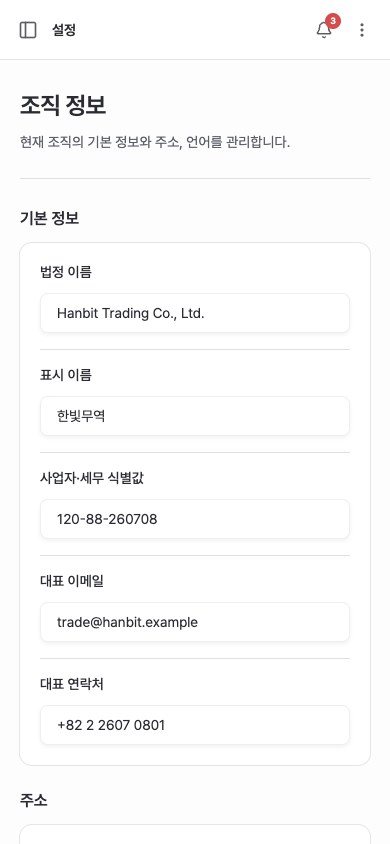
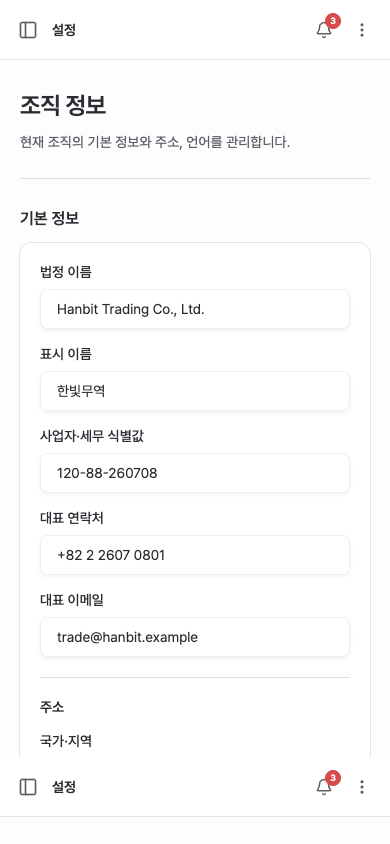
style: combine organization settings into one compact card

diff --git a/share/settings/page.tsx b/share/settings/page.tsx
@@ -341,14 +341,12 @@ function AccountPage() {
   )
 }
 
-function OrganizationSection({ title, id, children }: { title: string; id: string; children: ReactNode }) {
+function OrganizationField({ label, htmlFor, children }: { label: string; htmlFor?: string; children: ReactNode }) {
   return (
-    <section aria-labelledby={id} className="space-y-3">
-      <h2 id={id} className="text-base font-semibold">{title}</h2>
-      <Card className="shadow-none">
-        <CardContent className="p-5 sm:p-6">{children}</CardContent>
-      </Card>
-    </section>
+    <div className="min-w-0 space-y-2 [&_[role=combobox]]:h-10">
+      {htmlFor ? <label htmlFor={htmlFor} className="block text-sm font-medium">{label}</label> : <p className="text-sm font-medium">{label}</p>}
+      {children}
+    </div>
   )
 }
 
@@ -365,32 +363,44 @@ function OrganizationPage({ role, products }: { role: SettingsRole; products: re
     <div>
       <PageHeading title="조직 정보" description="현재 조직의 기본 정보와 주소, 언어를 관리합니다." />
       <form onSubmit={event => { event.preventDefault(); if (editable) setSaveError("조직 정보를 저장할 수 없습니다. 잠시 후 다시 시도해 주세요. 입력한 내용은 유지됩니다.") }} className="space-y-6">
-        <OrganizationSection id="organization-basics" title="기본 정보">
-          <SettingRow label="법정 이름"><Input data-guide-target="organization" aria-label="법정 이름" autoComplete="organization" defaultValue="Hanbit Trading Co., Ltd." readOnly={!editable} /></SettingRow>
-          <SettingRow label="표시 이름"><Input aria-label="표시 이름" defaultValue="한빛무역" readOnly={!editable} /></SettingRow>
-          <SettingRow label="사업자·세무 식별값"><Input aria-label="사업자·세무 식별값" defaultValue="120-88-260708" readOnly={!editable} /></SettingRow>
-          <SettingRow label="대표 이메일"><Input aria-label="대표 이메일" type="email" autoComplete="email" defaultValue="trade@hanbit.example" readOnly={!editable} /></SettingRow>
-          <SettingRow label="대표 연락처"><Input aria-label="대표 연락처" type="tel" autoComplete="tel" defaultValue="+82 2 2607 0801" readOnly={!editable} /></SettingRow>
-        </OrganizationSection>
-        <OrganizationSection id="organization-address" title="주소">
-          <SettingRow label="국가·지역" description="국가명이나 국가 코드로 검색할 수 있습니다.">
-            <SearchableSetting label="국가·지역" value={country} options={countryOptions} onChange={setCountry} disabled={!editable} />
-          </SettingRow>
-          {country !== "KR" ? <p role="status" className="py-3 text-xs text-muted-foreground">국가를 변경했습니다. 기존 주소와 우편번호가 새 국가에 맞는지 확인해 주세요.</p> : null}
-          <SettingRow label="우편번호"><Input aria-label="우편번호" autoComplete="postal-code" placeholder={country === "US" ? "예: 10001" : country === "JP" ? "예: 100-0001" : "우편번호"} readOnly={!editable} /></SettingRow>
-          <SettingRow label={regionLabel}><Input aria-label={regionLabel} autoComplete="address-level1" defaultValue="서울특별시" readOnly={!editable} /></SettingRow>
-          <SettingRow label={cityLabel}><Input aria-label={cityLabel} autoComplete="address-level2" defaultValue="중구" readOnly={!editable} /></SettingRow>
-          <SettingRow label="기본 주소" description="도로명과 건물 번호를 입력하세요."><Input aria-label="기본 주소" autoComplete="address-line1" placeholder="도로명, 건물 번호" readOnly={!editable} /></SettingRow>
-          <SettingRow label="상세 주소" description="동·층·호수 등 추가 주소를 입력하세요. (선택)"><Input aria-label="상세 주소" autoComplete="address-line2" placeholder="동, 층, 호수" readOnly={!editable} /></SettingRow>
-        </OrganizationSection>
-        <OrganizationSection id="organization-region" title="언어 및 시간대">
-          <SettingRow label="기본 언어" description="개인의 언어 설정은 내 계정에서 관리합니다.">
-            <SearchableSetting label="기본 언어" value={locale} options={locales} onChange={setLocale} disabled={!editable} />
-          </SettingRow>
-          <SettingRow label="기본 시간대" description="국가를 바꿔도 시간대는 유지됩니다.">
-            <SearchableSetting label="기본 시간대" value={timezone} options={timeZoneOptions} onChange={setTimezone} disabled={!editable} />
-          </SettingRow>
-        </OrganizationSection>
+        <section aria-labelledby="organization-basics" className="space-y-3">
+          <h2 id="organization-basics" className="text-base font-semibold">기본 정보</h2>
+          <Card className="shadow-none">
+            <CardContent className="space-y-5 p-5 sm:p-6">
+              <div className="grid gap-4 sm:grid-cols-2">
+                <OrganizationField label="법정 이름" htmlFor="organization-legal-name"><Input id="organization-legal-name" data-guide-target="organization" aria-label="법정 이름" autoComplete="organization" defaultValue="Hanbit Trading Co., Ltd." readOnly={!editable} /></OrganizationField>
+                <OrganizationField label="표시 이름" htmlFor="organization-display-name"><Input id="organization-display-name" aria-label="표시 이름" defaultValue="한빛무역" readOnly={!editable} /></OrganizationField>
+                <OrganizationField label="사업자·세무 식별값" htmlFor="organization-tax-id"><Input id="organization-tax-id" aria-label="사업자·세무 식별값" defaultValue="120-88-260708" readOnly={!editable} /></OrganizationField>
+                <OrganizationField label="대표 연락처" htmlFor="organization-phone"><Input id="organization-phone" aria-label="대표 연락처" type="tel" autoComplete="tel" defaultValue="+82 2 2607 0801" readOnly={!editable} /></OrganizationField>
+                <div className="sm:col-span-2">
+                  <OrganizationField label="대표 이메일" htmlFor="organization-email"><Input id="organization-email" aria-label="대표 이메일" type="email" autoComplete="email" defaultValue="trade@hanbit.example" readOnly={!editable} /></OrganizationField>
+                </div>
+              </div>
+              <div role="group" aria-labelledby="organization-address" className="space-y-4 border-t pt-5">
+                <h3 id="organization-address" className="text-sm font-semibold">주소</h3>
+                <div className="grid gap-4 sm:grid-cols-2">
+                  <OrganizationField label="국가·지역">
+                    <SearchableSetting label="국가·지역" value={country} options={countryOptions} onChange={setCountry} disabled={!editable} />
+                  </OrganizationField>
+                  <OrganizationField label="우편번호" htmlFor="organization-postal-code"><Input id="organization-postal-code" aria-label="우편번호" autoComplete="postal-code" placeholder={country === "US" ? "예: 10001" : country === "JP" ? "예: 100-0001" : "우편번호"} readOnly={!editable} /></OrganizationField>
+                  <OrganizationField label={regionLabel} htmlFor="organization-state"><Input id="organization-state" aria-label={regionLabel} autoComplete="address-level1" defaultValue="서울특별시" readOnly={!editable} /></OrganizationField>
+                  <OrganizationField label={cityLabel} htmlFor="organization-city"><Input id="organization-city" aria-label={cityLabel} autoComplete="address-level2" defaultValue="중구" readOnly={!editable} /></OrganizationField>
+                  <OrganizationField label="기본 주소" htmlFor="organization-address-line1"><Input id="organization-address-line1" aria-label="기본 주소" autoComplete="address-line1" placeholder="도로명, 건물 번호" readOnly={!editable} /></OrganizationField>
+                  <OrganizationField label="상세 주소 (선택)" htmlFor="organization-address-line2"><Input id="organization-address-line2" aria-label="상세 주소" autoComplete="address-line2" placeholder="동, 층, 호수" readOnly={!editable} /></OrganizationField>
+                </div>
+                {country !== "KR" ? <p role="status" className="text-xs text-muted-foreground">국가를 변경했습니다. 기존 주소와 우편번호가 새 국가에 맞는지 확인해 주세요.</p> : null}
+              </div>
+              <div className="grid gap-4 border-t pt-5 sm:grid-cols-2">
+                <OrganizationField label="기본 언어">
+                  <SearchableSetting label="기본 언어" value={locale} options={locales} onChange={setLocale} disabled={!editable} />
+                </OrganizationField>
+                <OrganizationField label="기본 시간대">
+                  <SearchableSetting label="기본 시간대" value={timezone} options={timeZoneOptions} onChange={setTimezone} disabled={!editable} />
+                </OrganizationField>
+              </div>
+            </CardContent>
+          </Card>
+        </section>
         {editable ? <div className="flex flex-wrap items-center justify-end gap-3">
           {saveError ? <p role="alert" className="w-full text-sm text-destructive">{saveError}</p> : null}
           <Button type="submit">조직 정보 저장</Button>
